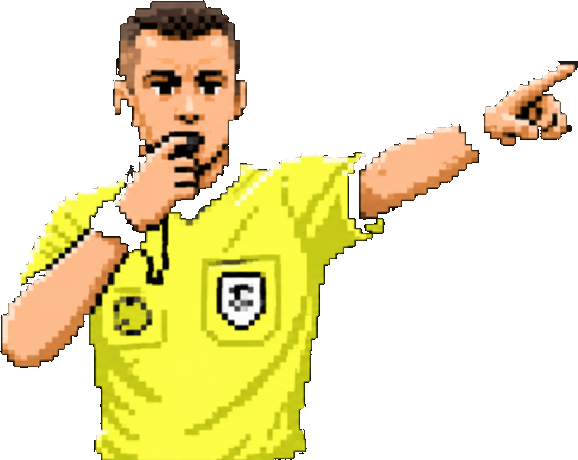
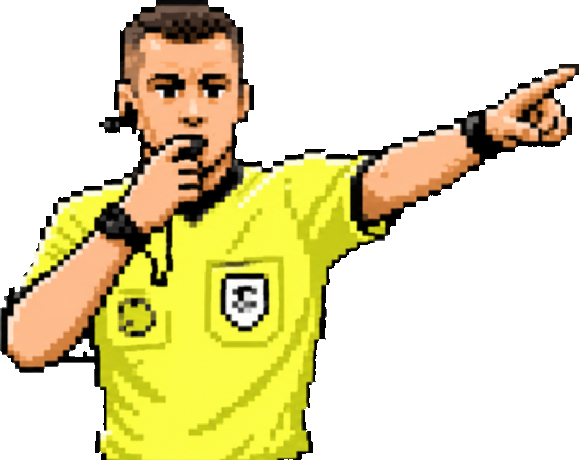
feat(foul): 主審カットインを青空背景に刷新＋切り抜き透過バグ修正＋回帰ゲート追加（lab限定）
- ファールシーンの背景を観客席流用から「主審ドアップ専用の青空背景」へ変更。
  雲＋太陽のみの生成PNG(foul_sky_bg_01.png)を敷き、404時は手続き描画の_foulBg()にフォールバック。preload登録済み。
- referee切り抜きツール(keyout.js)の黒(輪郭線/笛/時計/リストバンド)透過抜けを修正。
  黒成分の成分単位復元＋内部穴埋め＋暗/クリームAA縁復元＋クラック充填＋KEYOUT_ERASE手動消去矩形。
  foul_ref_t_01.png を再生成(v7img相当・回帰ゲート[A-F]全PASS)。
- keyout_check.py: keyout出力の自動回帰ゲート(黒コア喪失/閉鎖穴正当性/クリーム喪失/背景残留/基準版比黒回帰/浮遊成分)を新設。

Changed region(s): [[0.0, 0.0, 1.0, 1.0], [0.3114, 0.8826, 0.4048, 0.9435]]

diff --git a/tools/art/keyout.js b/tools/art/keyout.js
@@ -11,6 +11,13 @@
  *
  * 使い方: node tools/art/keyout.js <in> <out.png> [scaleDownToHeight] [tol=40]
  *   例: node tools/art/keyout.js /tmp/foul_ref_src.png img/cutscenes/foul_ref_t_01.png 380
+ *   環境変数: KEYOUT_ERASE="x0,y0,x1,y1[;...]"=元画像座標の手動消去矩形 / KEYOUT_DEBUG=1=黒成分の近接率ダンプ
+ *   ★ foul_ref_t_01.png の正規再現手順（胴右の観客席付着の消去矩形込み・2026-07-16確定）:
+ *     1) KEYOUT_ERASE="1005,692,1020,710" node tools/art/keyout.js tools/art/cutscenes/foul_ref_src.png img/cutscenes/foul_ref_t_01.png 460
+ *     2) 同コマンドで縮小なしフル版も出し、自動回帰ゲートを通す（FAILなら受入検査に出さない）:
+ *        python3 tools/art/keyout_check.py <full.png> tools/art/cutscenes/foul_ref_src.png <bbox_x> <bbox_y> [基準版full.png bx by]
+ *        (bbox_x/y はツールが出力する "bbox WxH at X,Y" の X,Y)
+ *     3) asset-qa エージェントで受入検査（等倍目視・PASS必須）
  */
 const sharp = require('sharp');
 
@@ -90,9 +97,185 @@ async function main() {
     }
     if (size >= T) { keepRoot[s] = 1; nKept++; total += size; }
   }
+  let kept = new Uint8Array(N);
+  for (let p = 0; p < N; p++) kept[p] = (alpha[p] !== 0 && keepRoot[comp[p]]) ? 1 : 0;
+  // 復元パス: 誤って除去された「主役の黒」(輪郭線/リストバンド/時計等)を、黒の連結成分単位で丸ごと戻す。
+  //   画素単位(近い縁だけ)の復元だと太い輪郭線の外側だけが欠けて破線状になる(2026-07-16の不具合)ため、必ず成分単位で扱う。
+  //   判定: 除去済みの黒成分のうち「成分画素のうち NEAR_FRAC 以上が確定シルエットの近く(NEAR_R px以内)にある」ものを復元。
+  //   - 主役の輪郭線はシルエットに全長で寄り添う。ただし線が太い(5〜8px)ため外側は近接圏外 → 実測の近接率は0.18〜0.36
+  //   - スタンドの柵/観客の黒は主役から離れて伸びる → 実測0.00〜0.05。閾値はこの分離帯の中間に置く(KEYOUT_DEBUG=1で実測可)
+  const NEAR_R = 3, NEAR_FRAC = parseFloat(process.env.KEYOUT_NEAR_FRAC || '0.12');
+  {
+    // kept を NEAR_R 回 1px 膨張させた near マスクを作る
+    let near = Uint8Array.from(kept), tmp = new Uint8Array(N);
+    for (let it = 0; it < NEAR_R; it++) {
+      tmp.set(near);
+      for (let p = 0; p < N; p++) {
+        if (tmp[p]) continue; const x = p % W, y = (p / W) | 0;
+        if ((x > 0 && tmp[p - 1]) || (x < W - 1 && tmp[p + 1]) || (y > 0 && tmp[p - W]) || (y < H - 1 && tmp[p + W])) near[p] = 1;
+      }
+    }
+    // 除去済み黒成分ごとに近接率を集計(成分ラベルは bcomp を再利用)
+    const csize = {}, cnear = {};
+    for (let p = 0; p < N; p++) {
+      if (!blk[p] || kept[p]) continue; const r = bcomp[p];
+      csize[r] = (csize[r] || 0) + 1; if (near[p]) cnear[r] = (cnear[r] || 0) + 1;
+    }
+    if (process.env.KEYOUT_DEBUG) {
+      const tops = Object.keys(csize).sort((a, b) => csize[b] - csize[a]).slice(0, 12);
+      for (const r of tops) {
+        const rr = +r, x = rr % W, y = (rr / W) | 0;
+        console.log('  removed-black comp @' + x + ',' + y, 'size=' + csize[r], 'nearFrac=' + ((cnear[r] || 0) / csize[r]).toFixed(2));
+      }
+    }
+    const restoreRoot = {};
+    // 近接率クリア or「小さくてシルエットに接する黒」(指先/襟/袖の輪郭ダブ・トリム破線。太い破線は近接率が
+    //   低く出るので接触1pxで拾う。柵/観客の大きな黒は size>1500 で弾き、輪郭に融合した席は KEYOUT_ERASE で対処)
+    for (const r in csize) if ((cnear[r] || 0) / csize[r] >= NEAR_FRAC || (csize[r] <= 1500 && (cnear[r] || 0) >= 1)) restoreRoot[r] = 1;
+    let nRes = 0;
+    for (let p = 0; p < N; p++) if (blk[p] && !kept[p] && restoreRoot[bcomp[p]]) { kept[p] = 1; nRes++; }
+    console.log('restored', Object.keys(restoreRoot).length, 'black components,', nRes, 'px');
+  }
+  // AA縁復元パス: シルエット輪郭のアンチエイリアス画素を3周ぶん戻し、輪郭の痩せ/破線を解消。
+  //   対象は2種: ①暗部/暗い暖色(黒輪郭・髪・肌の縁) ②暖色ブライト(襟/袖口のクリーム・肌ハイライト。
+  //   フラッドの白/灰ルールが食べた生地の縁。asset-qa 2026-07-16指摘)。②は観客のタン色を拾わないよう
+  //   kept隣接2辺以上(=輪郭の凹部/線上)に限定。明るい背景色(空/芝/白/紺)は戻さない。
+  {
+    let nAA = 0;
+    for (let it = 0; it < 3; it++) {
+      const add = [];
+      for (let p = 0; p < N; p++) {
+        if (kept[p]) continue;
+        const i = p * C, r = data[i], g = data[i + 1], b = data[i + 2], mx = Math.max(r, g, b);
+        if (b > r + 10 || (g > r + 6 && g > b + 10)) continue;   // 寒色(観客席の紺)と緑(芝)は背景
+        const darkish = mx <= 100 || (r >= b && mx <= 140);      // ①暗部 or 暗い暖色(髪/肌の縁)
+        // ②クリーム(襟/袖口/肩章の淡生地)。観客のピーチ肌より明るく淡い帯域に限定し、平坦な縁でも成長できるよう隣接1辺でよい
+        const warmBright = r >= 225 && g >= 210 && b >= 165 && (r - b) >= 18 && (r - b) <= 70;
+        if (!darkish && !warmBright) continue;
+        const x = p % W, y = (p / W) | 0;
+        let nk = 0;
+        if (x > 0 && kept[p - 1]) nk++;
+        if (x < W - 1 && kept[p + 1]) nk++;
+        if (y > 0 && kept[p - W]) nk++;
+        if (y < H - 1 && kept[p + W]) nk++;
+        if (nk >= 1) add.push(p);
+      }
+      for (const p of add) kept[p] = 1;
+      nAA += add.length;
+    }
+    console.log('restored', nAA, 'AA edge px (dark+cream)');
+  }
+  // 黒成分救済・2周目: AA/クリーム復元で輪郭が伸びた後に再評価する。
+  //   襟/肩のトリム破線は「食われたクリーム帯」の向こう側に孤立しており、1周目の近接判定(3px)に届かない。
+  //   クリーム復元で橋が架かった後なら近接圏に入る(asset-qa 2026-07-16 襟トリム全滅指摘の恒久対策)。
+  {
+    let near2 = Uint8Array.from(kept), tmp2 = new Uint8Array(N);
+    for (let it = 0; it < NEAR_R; it++) {
+      tmp2.set(near2);
+      for (let p = 0; p < N; p++) {
+        if (tmp2[p]) continue; const x = p % W, y = (p / W) | 0;
+        if ((x > 0 && tmp2[p - 1]) || (x < W - 1 && tmp2[p + 1]) || (y > 0 && tmp2[p - W]) || (y < H - 1 && tmp2[p + W])) near2[p] = 1;
+      }
+    }
+    const cs2 = {}, cn2 = {};
+    for (let p = 0; p < N; p++) {
+      if (!blk[p] || kept[p]) continue; const r = bcomp[p];
+      cs2[r] = (cs2[r] || 0) + 1; if (near2[p]) cn2[r] = (cn2[r] || 0) + 1;
+    }
+    const rr2 = {};
+    for (const r in cs2) if (cs2[r] <= 1500 && (cn2[r] || 0) >= 1) rr2[r] = 1;
+    let n2 = 0;
+    for (let p = 0; p < N; p++) if (blk[p] && !kept[p] && rr2[bcomp[p]]) { kept[p] = 1; n2++; }
+    if (n2) console.log('second-pass rescued', n2, 'black px');
+  }
+  // クラック充填: 上下または左右を主役画素に挟まれた幅1〜2pxの透過裂け目を埋める(トリム破線とクリーム帯の間の
+  //   食い残し・救済破線の下の遷移行スリット等)。挟まれ条件なので面には成長しない。
+  //   幅2の裂け目も「反対側2px以内にkept」で埋まる(asset-qa 2026-07-16 肩トリム浮き指摘対応)。
+  //   背景色(空/芝/観客紺/無彩色の白=手すり・白観客)の裂け目は正当な隙間の細部なので埋めない。
+  {
+    let nCr = 0;
+    for (let it = 0; it < 3; it++) {
+      const add = [];
+      for (let p = 0; p < N; p++) {
+        if (kept[p]) continue;
+        const x = p % W, y = (p / W) | 0;
+        const i = p * C, r = data[i], g = data[i + 1], b = data[i + 2];
+        const mx = Math.max(r, g, b), mn = Math.min(r, g, b);
+        if ((b > 60 && b >= r + 12) || (g > r + 6 && g > b + 10 && r < 175)) continue;   // 空/芝は残す
+        if (b > r + 10) continue;                                                        // 観客紺は残す
+        if (mn >= 190 && (mx - mn) <= 15) continue;                                      // 無彩色の白(手すり/白観客)は残す
+        const up = (y > 0 && kept[p - W]) || (y > 1 && kept[p - 2 * W]);
+        const dn = (y < H - 1 && kept[p + W]) || (y < H - 2 && kept[p + 2 * W]);
+        const lf = (x > 0 && kept[p - 1]) || (x > 1 && kept[p - 2]);
+        const rt = (x < W - 1 && kept[p + 1]) || (x < W - 2 && kept[p + 2]);
+        if ((up && dn) || (lf && rt)) add.push(p);
+      }
+      for (const p of add) kept[p] = 1;
+      nCr += add.length;
+    }
+    if (nCr) console.log('filled', nCr, 'crack px');
+  }
+  // 穴埋めパス: シルエット内部に閉じ込められた透過穴を埋める。黒の中のグレーハイライト(時計の文字盤等)が
+  //   背景色ルール(灰)に誤爆して穴になるため。ただし「指の間や腋下から空/観客が見える正当な窓」は残す:
+  //   大きい穴(>150px)と、中身が明らかに背景(青空/緑芝/白)優勢の穴は埋めない。
+  {
+    const tcomp = new Int32Array(N).fill(-1); const tq = new Int32Array(N);
+    let nHole = 0, nHolePx = 0;
+    for (let s = 0; s < N; s++) {
+      if (kept[s] || tcomp[s] !== -1) continue;
+      let head = 0, tail = 0; tq[tail++] = s; tcomp[s] = s; let border = false, bgish = 0;
+      while (head < tail) {
+        const p = tq[head++], x = p % W, y = (p / W) | 0;
+        const i = p * C, r = data[i], g = data[i + 1], b = data[i + 2];
+        if (b > 42 && b >= r + 12 && b >= g - 16) bgish++; else if (g > r + 6 && g > b + 10 && r < 175) bgish++;   // 白は数えない: 襟/袖口のクリームと区別不能。本物の窓(腋下等)は空/観客の青が必ず混ざる
+        if (x === 0 || y === 0 || x === W - 1 || y === H - 1) border = true;
+        if (x > 0 && !kept[p - 1] && tcomp[p - 1] === -1) { tcomp[p - 1] = s; tq[tail++] = p - 1; }
+        if (x < W - 1 && !kept[p + 1] && tcomp[p + 1] === -1) { tcomp[p + 1] = s; tq[tail++] = p + 1; }
+        if (y > 0 && !kept[p - W] && tcomp[p - W] === -1) { tcomp[p - W] = s; tq[tail++] = p - W; }
+        if (y < H - 1 && !kept[p + W] && tcomp[p + W] === -1) { tcomp[p + W] = s; tq[tail++] = p + W; }
+      }
+      const size = tail;
+      if (!border && size <= 400 && bgish / size < 0.5) {
+        for (let k = 0; k < tail; k++) kept[tq[k]] = 1;
+        nHole++; nHolePx += size;
+      }
+    }
+    console.log('filled', nHole, 'enclosed holes,', nHolePx, 'px');
+  }
+  // 手動消去矩形: KEYOUT_ERASE="x0,y0,x1,y1[;x0,y0,x1,y1...]" (元画像座標)。
+  //   主役の輪郭黒と背景の黒(観客席等)が元絵で融合している箇所は、色でも成分でも幾何でも安全に分離できない
+  //   (2026-07-16: 幾何の厚み制限は時計/肘の太い黒を誤爆して撤回)。最後は座標指定の職人の一手間で確実に落とす。
+  if (process.env.KEYOUT_ERASE) {
+    let nEr = 0;
+    for (const rect of process.env.KEYOUT_ERASE.split(';')) {
+      const [x0, y0, x1, y1] = rect.split(',').map(Number);
+      for (let y = Math.max(0, y0); y <= Math.min(H - 1, y1); y++)
+        for (let x = Math.max(0, x0); x <= Math.min(W - 1, x1); x++)
+          if (kept[y * W + x]) { kept[y * W + x] = 0; nEr++; }
+    }
+    console.log('erased', nEr, 'px via KEYOUT_ERASE');
+  }
+  // 斑点掃除: 復元処理で生じた8px未満の孤立不透明成分を除去(最終アセットに浮遊ドットを残さない)
+  {
+    const scomp = new Int32Array(N).fill(-1); const sq = new Int32Array(N); let nSpeck = 0;
+    for (let s2 = 0; s2 < N; s2++) {
+      if (!kept[s2] || scomp[s2] !== -1) continue;
+      let head = 0, tail = 0; sq[tail++] = s2; scomp[s2] = s2;
+      while (head < tail) {
+        const p = sq[head++], x = p % W, y = (p / W) | 0;
+        for (let dy = -1; dy <= 1; dy++) for (let dx = -1; dx <= 1; dx++) {
+          if (!dx && !dy) continue; const nx = x + dx, ny = y + dy;
+          if (nx < 0 || ny < 0 || nx >= W || ny >= H) continue;
+          const np = ny * W + nx; if (kept[np] && scomp[np] === -1) { scomp[np] = s2; sq[tail++] = np; }
+        }
+      }
+      if (tail < 8) { for (let k = 0; k < tail; k++) kept[sq[k]] = 0; nSpeck += tail; }
+    }
+    if (nSpeck) console.log('removed', nSpeck, 'speck px');
+  }
   let minX = W, minY = H, maxX = -1, maxY = -1;
   for (let p = 0; p < N; p++) {
-    const keep = alpha[p] !== 0 && keepRoot[comp[p]];
+    const keep = kept[p];
     data[p * C + 3] = keep ? 255 : 0;
     if (keep) { const x = p % W, y = (p / W) | 0; if (x < minX) minX = x; if (x > maxX) maxX = x; if (y < minY) minY = y; if (y > maxY) maxY = y; }
   }

diff --git a/tools/art/keyout_check.py b/tools/art/keyout_check.py
@@ -1,0 +1,171 @@
+#!/usr/bin/env python3
+"""keyout_check.py — keyout.js 出力の自動回帰ゲート（asset-qa 2026-07-16 推奨）。
+
+受入検査(asset-qa)に出す前に必ず通す。検査観点は asset-qa の3回のFAILから抽出:
+  [A] 元絵黒コアの透過喪失（図近傍）: 輪郭/トリム/バンドの欠け・破線化の検出
+  [B] 閉鎖穴の正当性: 空/芝が透ける正当な窓(空色率>=0.4 or >400px)以外の穴は欠陥
+  [C] 暖色クリームの透過喪失（図近傍）: 襟/袖口の生地欠けの検出
+  [D] 背景色(空/芝)の不透明残留: フリンジ/ゴミの検出
+  [E] 基準版との黒回帰: 前回合格版で不透明だった黒が新版で透過になっていないか
+
+使い方:
+  python3 tools/art/keyout_check.py <out_full.png> <src.png> <crop_x> <crop_y> [baseline_full.png]
+  例: python3 tools/art/keyout_check.py /tmp/out_full.png tools/art/cutscenes/foul_ref_src.png 417 115 /tmp/prev_full.png
+出力: 各観点の計測値とクラスタ位置。しきい値超過は "NG" を付けて exit 1。
+"""
+import sys
+import numpy as np
+from PIL import Image
+from collections import deque
+
+def clusters_of(mask, min_size=1, link=2):
+    oh, ow = mask.shape
+    seen = np.zeros_like(mask, dtype=bool)
+    ys, xs = np.where(mask)
+    pts = set(zip(ys.tolist(), xs.tolist()))
+    out = []
+    for y0, x0 in zip(ys.tolist(), xs.tolist()):
+        if seen[y0, x0]:
+            continue
+        q = deque([(y0, x0)]); seen[y0, x0] = True; c = []
+        while q:
+            y, x = q.popleft(); c.append((y, x))
+            for dy in range(-link, link + 1):
+                for dx in range(-link, link + 1):
+                    ny, nx = y + dy, x + dx
+                    if (ny, nx) in pts and 0 <= ny < oh and 0 <= nx < ow and not seen[ny, nx]:
+                        seen[ny, nx] = True; q.append((ny, nx))
+        if len(c) >= min_size:
+            out.append(c)
+    out.sort(key=len, reverse=True)
+    return out
+
+def main():
+    out_path, src_path, cx, cy = sys.argv[1], sys.argv[2], int(sys.argv[3]), int(sys.argv[4])
+    base_path = sys.argv[5] if len(sys.argv) > 5 else None
+    src = np.asarray(Image.open(src_path).convert('RGB'), dtype=np.int16)
+    out = np.asarray(Image.open(out_path).convert('RGBA'))
+    oh, ow = out.shape[:2]
+    crop = src[cy:cy + oh, cx:cx + ow]
+    alpha = out[:, :, 3] > 128
+    R, G, B = crop[:, :, 0], crop[:, :, 1], crop[:, :, 2]
+    ng = False
+
+    near = alpha.copy()
+    for _ in range(5):
+        n = near.copy()
+        n[1:, :] |= near[:-1, :]; n[:-1, :] |= near[1:, :]
+        n[:, 1:] |= near[:, :-1]; n[:, :-1] |= near[:, 1:]
+        near = n
+
+    # [A] 元絵黒コアの透過喪失（図近傍）
+    lum = crop.max(axis=2)
+    black = lum < 80
+    core = black.copy()
+    core[1:, :] &= black[:-1, :]; core[:-1, :] &= black[1:, :]
+    core[:, 1:] &= black[:, :-1]; core[:, :-1] &= black[:, 1:]
+    lostA = core & ~alpha & near
+    cl = clusters_of(lostA)
+    big = [c for c in cl if len(c) >= 60]
+    print(f"[A] black-core loss near figure: {int(lostA.sum())}px, clusters>=60px: {len(big)}")
+    for c in big[:8]:
+        xs = [p[1] for p in c]; ys = [p[0] for p in c]
+        print(f"    cluster {len(c)}px bbox=({min(xs)},{min(ys)})-({max(xs)},{max(ys)})  ※図側かスタンド側かは目視確認")
+
+    # [B] 閉鎖穴の正当性
+    lbl = np.zeros((oh, ow), dtype=bool)
+    holes_bad = 0
+    print("[B] enclosed holes:")
+    for y0 in range(oh):
+        for x0 in range(ow):
+            if alpha[y0, x0] or lbl[y0, x0]:
+                continue
+            q = deque([(y0, x0)]); lbl[y0, x0] = True; pts = []; border = False
+            while q:
+                y, x = q.popleft(); pts.append((y, x))
+                if y == 0 or x == 0 or y == oh - 1 or x == ow - 1:
+                    border = True
+                for dy, dx in ((1, 0), (-1, 0), (0, 1), (0, -1)):
+                    ny, nx = y + dy, x + dx
+                    if 0 <= ny < oh and 0 <= nx < ow and not alpha[ny, nx] and not lbl[ny, nx]:
+                        lbl[ny, nx] = True; q.append((ny, nx))
+            if border or len(pts) < 4:
+                continue
+            sky = sum(1 for y, x in pts if crop[y, x][2] > 60 and crop[y, x][2] >= crop[y, x][0] + 12)
+            rate = sky / len(pts)
+            legit = rate >= 0.4 or len(pts) > 400
+            mark = 'ok(window)' if legit else 'NG(figure hole)'
+            if not legit:
+                holes_bad += 1; ng = True
+            print(f"    {len(pts)}px at({pts[0][1]},{pts[0][0]}) sky={rate:.2f} {mark}")
+
+    # [C] 暖色クリーム喪失（図近傍）
+    cream = (R > 200) & (G > 185) & (B > 140) & (R >= B + 20)
+    lostC = cream & ~alpha & near
+    clc = [c for c in clusters_of(lostC) if len(c) >= 15]
+    print(f"[C] cream loss near figure: {int(lostC.sum())}px, clusters>=15px: {len(clc)}")
+    for c in clc[:6]:
+        xs = [p[1] for p in c]; ys = [p[0] for p in c]
+        print(f"    cluster {len(c)}px bbox=({min(xs)},{min(ys)})-({max(xs)},{max(ys)})")
+
+    # [D] 背景色の不透明残留
+    edge = ~alpha
+    for _ in range(3):
+        e2 = edge.copy()
+        e2[1:, :] |= edge[:-1, :]; e2[:-1, :] |= edge[1:, :]
+        e2[:, 1:] |= edge[:, :-1]; e2[:, :-1] |= edge[:, 1:]
+        edge = e2
+    fringe = alpha & edge   # 輪郭3px以内の不透明画素のみ対象(シャツ内部のオリーブ影を誤検知しない)
+    skyop = fringe & (B > 100) & (B >= R + 30) & (B >= G + 10)
+    grnop = fringe & (G > R + 20) & (G > B + 30) & (R < 150)
+    print(f"[D] opaque residue: sky={int(skyop.sum())}px grass={int(grnop.sum())}px", "NG" if skyop.sum() > 40 or grnop.sum() > 40 else "ok")
+    if skyop.sum() > 40 or grnop.sum() > 40:
+        ng = True
+
+    # [E] 基準版との黒回帰
+    if base_path:
+        bx = int(sys.argv[6]) if len(sys.argv) > 6 else cx
+        by = int(sys.argv[7]) if len(sys.argv) > 7 else cy
+        base = np.asarray(Image.open(base_path).convert('RGBA'))
+        bh, bw = base.shape[:2]
+        # 元画像座標系で共通域に整列して比較
+        x0 = max(cx, bx); y0 = max(cy, by)
+        x1 = min(cx + ow, bx + bw); y1 = min(cy + oh, by + bh)
+        a_now = alpha[y0 - cy:y1 - cy, x0 - cx:x1 - cx]
+        a_base = (base[:, :, 3] > 128)[y0 - by:y1 - by, x0 - bx:x1 - bx]
+        blk_c = black[y0 - cy:y1 - cy, x0 - cx:x1 - cx]
+        reg = blk_c & a_base & ~a_now
+        clr = [c for c in clusters_of(reg) if len(c) >= 40]
+        print(f"[E] black regression vs baseline: {int(reg.sum())}px, clusters>=40px: {len(clr)}")
+        for c in clr[:8]:
+            xs = [p[1] + (x0 - cx) for p in c]; ys = [p[0] + (y0 - cy) for p in c]
+            print(f"    cluster {len(c)}px bbox=({min(xs)},{min(ys)})-({max(xs)},{max(ys)})")
+
+    # [F] 浮遊成分: 本体から分離した小さな不透明成分(救済破線の浮き等)の検出（asset-qa 2026-07-16 肩トリム浮き指摘）
+    comp_lbl = np.zeros((oh, ow), dtype=bool)
+    comps = []
+    for y0 in range(oh):
+        for x0 in range(ow):
+            if not alpha[y0, x0] or comp_lbl[y0, x0]:
+                continue
+            q = deque([(y0, x0)]); comp_lbl[y0, x0] = True; n = 0; fx, fy = x0, y0
+            while q:
+                y, x = q.popleft(); n += 1
+                for dy in (-1, 0, 1):
+                    for dx in (-1, 0, 1):
+                        ny, nx = y + dy, x + dx
+                        if 0 <= ny < oh and 0 <= nx < ow and alpha[ny, nx] and not comp_lbl[ny, nx]:
+                            comp_lbl[ny, nx] = True; q.append((ny, nx))
+            comps.append((n, fx, fy))
+    comps.sort(reverse=True)
+    floaters = [c for c in comps if c[0] < 3000]
+    print(f"[F] opaque components: {len(comps)} (floaters<3000px: {len(floaters)})", "NG" if floaters else "ok")
+    for n, fx, fy in floaters[:6]:
+        print(f"    floater {n}px at({fx},{fy})")
+    if floaters:
+        ng = True
+
+    print("GATE:", "FAIL" if ng else "PASS(機械観点のみ・等倍目視とasset-qaは別途)")
+    sys.exit(1 if ng else 0)
+
+main()
